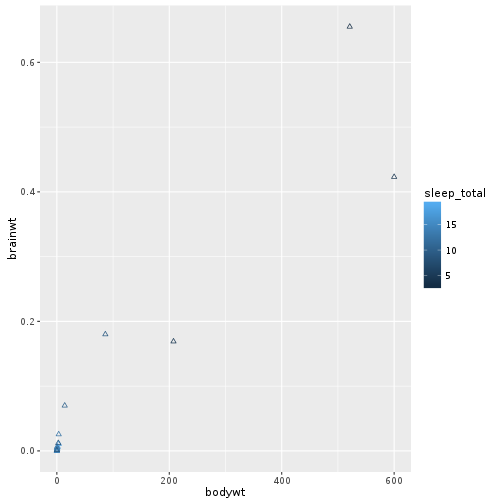
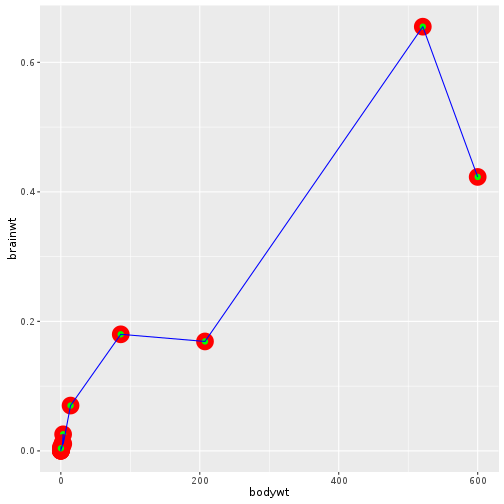
padding custom section

diff --git a/content/02-ggplot-customising.md b/content/02-ggplot-customising.md
@@ -31,6 +31,26 @@ So far you have learnt the basic structure of a plot, and how to map from the da
 
 ## Changing the features of the geometric layers
 
+If you want your symbols to all be coloured red
+
+
+~~~sourcecode
+ggplot(data = na.omit(msleep), 
+       aes(x = bodywt, y = brainwt)) +
+  geom_point(colour = "red")
+~~~
+
+<img src="images/custom-unnamed-chunk-2-1.png" title="plot of chunk unnamed-chunk-2" alt="plot of chunk unnamed-chunk-2" style="display: block; margin: auto;" />
+
+
+
+~~~sourcecode
+ggplot(data = na.omit(msleep), 
+       aes(x = bodywt, y = brainwt)) +
+  geom_point(colour = "red", fill="green", size=3,shape=21, stroke=4) + geom_line(colour="blue")
+~~~
+
+<img src="images/custom-unnamed-chunk-3-1.png" title="plot of chunk unnamed-chunk-3" alt="plot of chunk unnamed-chunk-3" style="display: block; margin: auto;" />
 Needs to include changing symbol borders and colours, size, shape, 
 line width (fill vs colour)
 
@@ -56,7 +76,16 @@ Modify the above code to display triangular symbols in the scatterplot, instead 
 ## Colour schemes
 
 How to change the colour scheme
+scale_colour_manual and scale_fill_manual and scale_colour_gradientn to change colours manually
+scale_colour_discrete, scale_colour_continuous
+For colour blind it is important to vary colours in hue, saturation and luminance
+Colours can be defined by name, rgb or hexadecimal
+colour picker - no help for colour blindness
 
+http://www.husl-colors.org/
+
+http://www.cookbook-r.com/Graphs/Colors_(ggplot2)/
+http://colorbrewer2.org/
 <br>
 
 ---
@@ -64,6 +93,22 @@ How to change the colour scheme
 ## Altering the legend
 
 legend location, title and names
+theme
+legend.background	background of legend (element_rect; inherits from rect)
+legend.margin	extra space added around legend (unit)
+legend.key	background underneath legend keys (element_rect; inherits from rect)
+legend.key.size	size of legend keys (unit; inherits from legend.key.size)
+legend.key.height	key background height (unit; inherits from legend.key.size)
+legend.key.width	key background width (unit; inherits from legend.key.size)
+legend.text	legend item labels (element_text; inherits from text)
+legend.text.align	alignment of legend labels (number from 0 (left) to 1 (right))
+legend.title	title of legend (element_text; inherits from title)
+legend.title.align	alignment of legend title (number from 0 (left) to 1 (right))
+legend.position	the position of legends ("none", "left", "right", "bottom", "top", or two-element numeric vector)
+legend.direction	layout of items in legends ("horizontal" or "vertical")
+legend.justification	anchor point for positioning legend inside plot ("center" or two-element numeric vector)
+legend.box	arrangement of multiple legends ("horizontal" or "vertical")
+legend.box.just	justification of each legend within the overall bounding box, when there are multiple legends ("top", "bottom", "left", or "right")
 
 <br>
 
@@ -71,11 +116,28 @@ legend location, title and names
 
 ## Plot annotations
 
+annotate
+
 <br>
 
 ---
 
 ## Modifying the plot axes and tick marks
+
+theme
+axis.title	label of axes (element_text; inherits from text)
+axis.title.x	x axis label (element_text; inherits from axis.title)
+axis.title.y	y axis label (element_text; inherits from axis.title)
+axis.text	tick labels along axes (element_text; inherits from text)
+axis.text.x	x axis tick labels (element_text; inherits from axis.text)
+axis.text.y	y axis tick labels (element_text; inherits from axis.text)
+axis.ticks	tick marks along axes (element_line; inherits from line)
+axis.ticks.x	x axis tick marks (element_line; inherits from axis.ticks)
+axis.ticks.y	y axis tick marks (element_line; inherits from axis.ticks)
+axis.ticks.length	length of tick marks (unit)
+axis.line	lines along axes (element_line; inherits from line)
+axis.line.x	line along x axis (element_line; inherits from axis.line)
+axis.line.y	line along y axis (element_line; inherits from axis.line)
 
 <br>
 
@@ -83,16 +145,42 @@ legend location, title and names
 
 ## Changing the plot background and grid lines
 
+theme 
+
+line	all line elements (element_line)
+rect	all rectangular elements (element_rect)
+text	all text elements (element_text)
+title	all title elements: plot, axes, legends (element_text; inherits from text)
+aspect.ratio	aspect ratio of the panel
+panel.background	background of plotting area, drawn underneath plot (element_rect; inherits from rect)
+panel.border	border around plotting area, drawn on top of plot so that it covers tick marks and grid lines. This should be used with fill=NA (element_rect; inherits from rect)
+panel.margin	margin around facet panels (unit)
+panel.margin.x	horizontal margin around facet panels (unit; inherits from panel.margin)
+panel.margin.y	vertical margin around facet panels (unit; inherits from panel.margin)
+panel.grid	grid lines (element_line; inherits from line)
+panel.grid.major	major grid lines (element_line; inherits from panel.grid)
+panel.grid.minor	minor grid lines (element_line; inherits from panel.grid)
+panel.grid.major.x	vertical major grid lines (element_line; inherits from panel.grid.major)
+panel.grid.major.y	horizontal major grid lines (element_line; inherits from panel.grid.major)
+panel.grid.minor.x	vertical minor grid lines (element_line; inherits from panel.grid.minor)
+panel.grid.minor.y	horizontal minor grid lines (element_line; inherits from panel.grid.minor)
+panel.ontop	option to place the panel (background, gridlines) over the data layers. Usually used with a transparent or blank panel.background. (logical)
+plot.background	background of the entire plot (element_rect; inherits from rect)
+plot.title	plot title (text appearance) (element_text; inherits from title)
+plot.margin	margin around entire plot (unit with the sizes of the top, right, bottom, and left margins)
+strip.background	background of facet labels (element_rect; inherits from rect)
+strip.text	facet labels (element_text; inherits from text)
+strip.text.x	facet labels along horizontal direction (element_text; inherits from strip.text)
+strip.text.y	facet labels along vertical direction (element_text; inherits from strip.text)
 <br>
 
 ---
 
 ## Adding a plot title and axis labels
 
-<br>
-
----
-Themes control non-data components of the plot.
+ggtitle
+xlab
+ylab
 
 <br>
 
@@ -109,6 +197,6 @@ ggplot(data = na.omit(msleep),
   geom_point(shape = 2)
 ~~~
 
-<img src="images/custom-unnamed-chunk-3-1.png" title="plot of chunk unnamed-chunk-3" alt="plot of chunk unnamed-chunk-3" style="display: block; margin: auto;" />
+<img src="images/custom-unnamed-chunk-5-1.png" title="plot of chunk unnamed-chunk-5" alt="plot of chunk unnamed-chunk-5" style="display: block; margin: auto;" />
 
 <!--endsec-->

diff --git a/SUMMARY.md b/SUMMARY.md
@@ -2,4 +2,4 @@
 
 * [Introduction](README.md)
 * [Introduction to ggplot2](content/01-ggplot-intro.md)
-* [Customising ggplots](content/02-ggplot-customising.md)
+* [Customising a ggplot](content/02-ggplot-customising.md)
